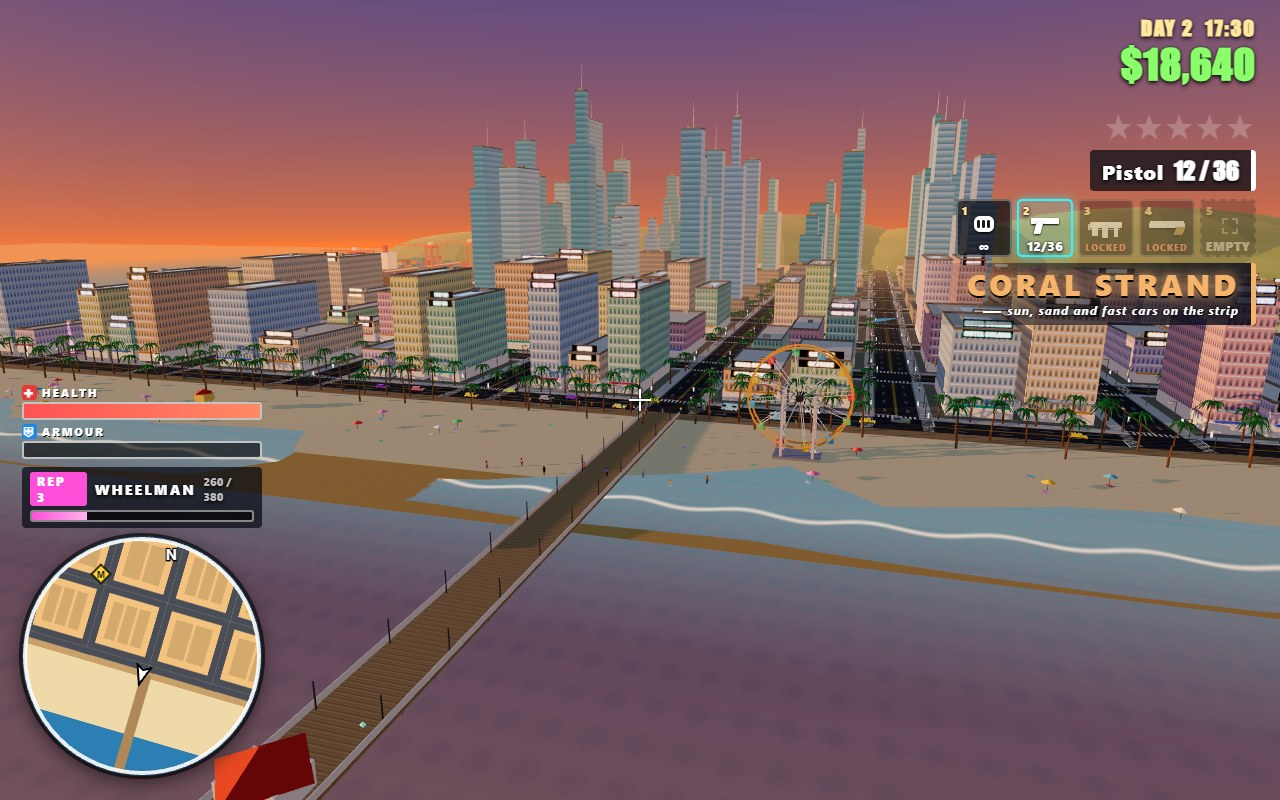
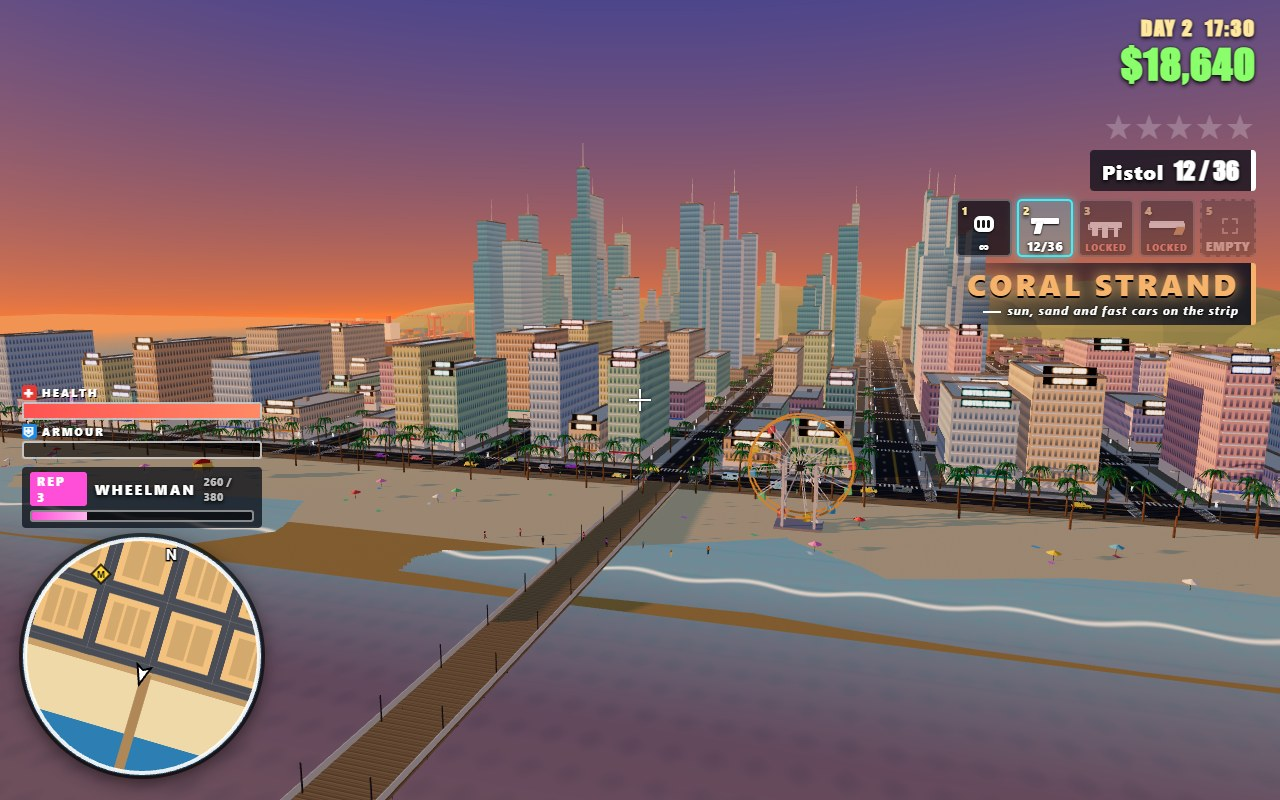
Shots: hide district card under mission results, tilt vista past the pier-end prop, retake chase/vista/mission

diff --git a/game/src/shots.js b/game/src/shots.js
@@ -277,6 +277,8 @@ export async function stageShot(name, G) {
     document.getElementById('menus').classList.add('side');
     document.getElementById('hud').classList.remove('dimmed');
     G.hud.update(0.016);
+    // The results card sits where the district title card would; hide the latter so they never overlap.
+    document.getElementById('district').style.display = 'none';
     return;
   }
 
@@ -311,12 +313,19 @@ export async function stageShot(name, G) {
     const cam = { x: L.pier.x - ux * 120 - uz * 50, y: 62, z: L.pier.z - uz * 120 + ux * 50 };
     G.camera.camera.fov = 55;
     G.camera.camera.updateProjectionMatrix();
-    placeCamera(G, cam, { x: L.pier.x + ux * 110, y: 4, z: L.pier.z + uz * 110 });
+    placeCamera(G, cam, { x: L.pier.x + ux * 110, y: 26, z: L.pier.z + uz * 110 });
     G.world.scene.fog.near = 200;
     G.world.scene.fog.far = 1400;
     G.world.scene.fog.color.set('#ffb070');
     G.renderer.toneMappingExposure = 1.2;
     G.world.sky.sun.color.set('#ffb468');
+    // Keep the player out of the shot and hide any car that would clip at the frame edge.
+    G.player.model.group.visible = false;
+    const ndc = new THREE.Vector3();
+    for (const v of G.fleet.vehicles) {
+      ndc.set(v.x, v.y, v.z).project(G.camera.camera);
+      if (v.owner === 'player' || Math.abs(ndc.x) > 0.85 || ndc.y < -0.8 || ndc.z > 1) v.model.root.visible = false;
+    }
     finish();
     return;
   }
